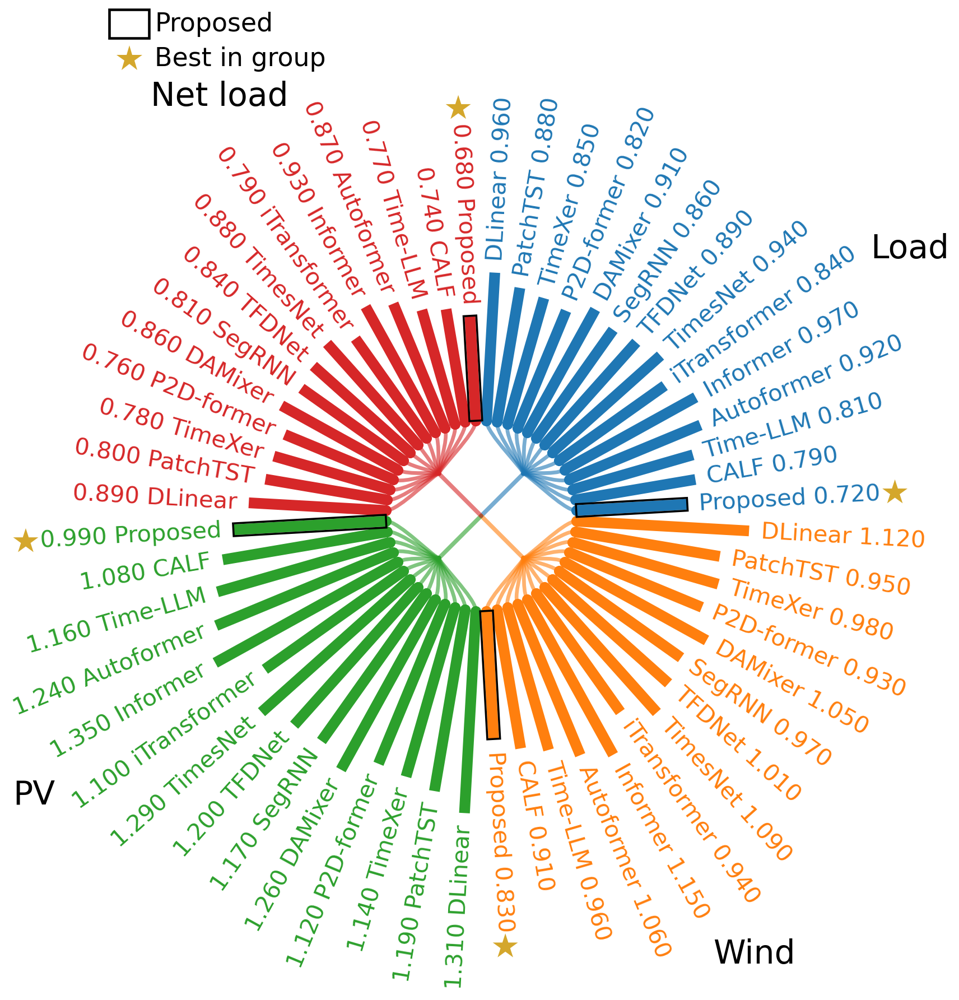
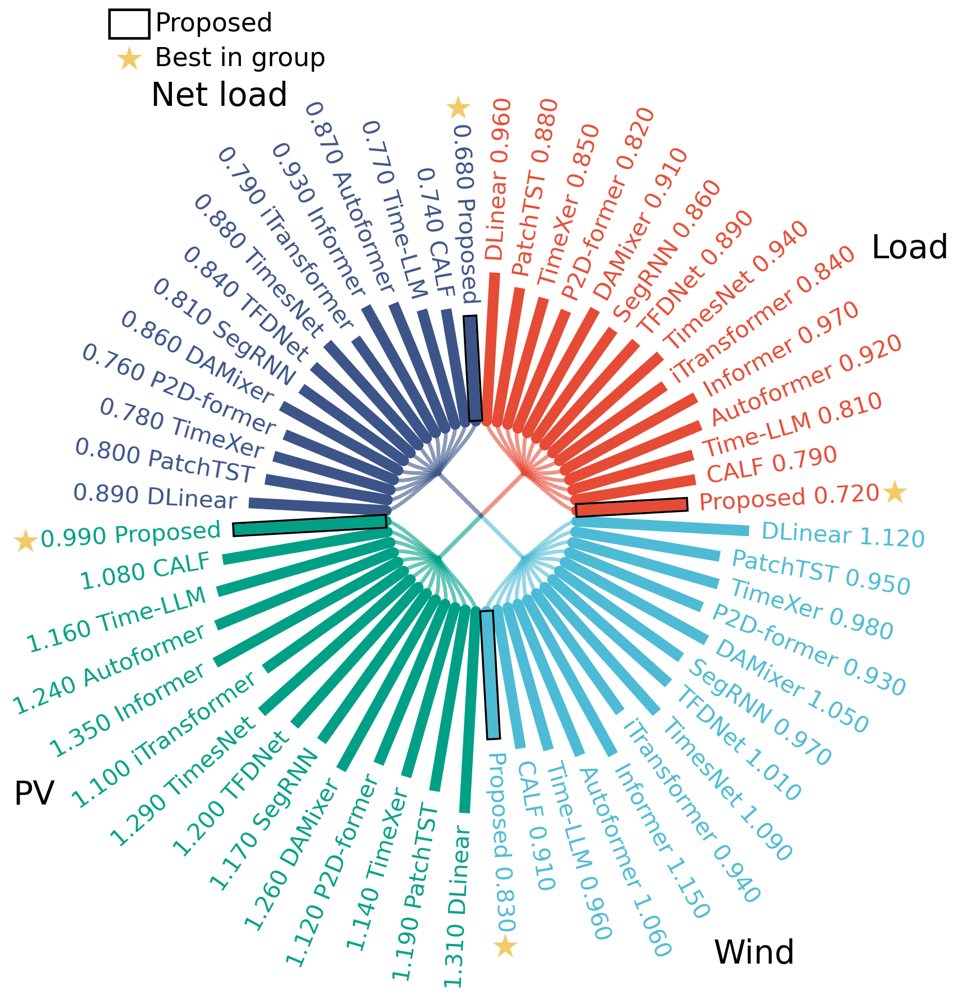
Add reference image palettes and per-panel color selection

diff --git a/src/radialbundle/plotting.py b/src/radialbundle/plotting.py
@@ -16,6 +16,10 @@ import numpy as np
 
 PALETTE = ("#1f77b4", "#ff7f0e", "#2ca02c", "#d62728", "#9467bd",
            "#8c564b", "#e377c2", "#7f7f7f", "#bcbd22", "#17becf")
+PALETTES = {
+    "reference": ("#E64B35", "#4DBBD5", "#00A087", "#3C5488"),
+    "reference_right": ("#7E2F8E", "#238EBA", "#00A087", "#D99A00"),
+}
 
 
 @dataclass(frozen=True)
@@ -38,7 +42,7 @@ class Style:
     branch_alpha: float = 0.6
     start_angle: float = 90
     group_label_angle: float = 0.355
-    star_color: str = "#D4A72C"
+    star_color: str = "#F2CA69"
 
 
 def _xy(radius, angle):
@@ -112,7 +116,7 @@ def _validate_style(style):
 
 
 def plot(data, *, highlight=None, lower_is_better=True, value_format=".3f",
-         scale=None, colors=None, model_order=None, background=None, title=None,
+         scale=None, colors="reference", model_order=None, background=None, title=None,
          style=None, ax=None, legend=True, highlight_label=None, best_label="Best"):
     """Draw one disk and return ``(figure, axes)``.
 
@@ -121,6 +125,8 @@ def plot(data, *, highlight=None, lower_is_better=True, value_format=".3f",
     A single linear scale is used across the disk. Stars identify all exact ties
     for the best observed value within each group; the outline is independent.
     ``scale`` is drawing units per data unit, not per-group normalization.
+    ``colors`` accepts a named palette (reference, reference_right, matplotlib),
+    a group/color mapping, or a color sequence. None follows Matplotlib's cycle.
     """
     data, models = _prepare(data, model_order, highlight)
     style = Style() if style is None else style
@@ -136,8 +142,13 @@ def plot(data, *, highlight=None, lower_is_better=True, value_format=".3f",
     except (ValueError, TypeError) as error:
         raise ValueError("value_format must be a valid Python numeric format, e.g. '.3f'") from error
     groups = list(data)
-    if colors is None:
+    if colors is None or (isinstance(colors, str) and colors == "matplotlib"):
         cycle = mpl.rcParams["axes.prop_cycle"].by_key().get("color", PALETTE)
+        palette = [cycle[i % len(cycle)] for i in range(len(groups))]
+    elif isinstance(colors, str):
+        if colors not in PALETTES:
+            raise ValueError(f"unknown palette {colors!r}; choose reference, reference_right, or matplotlib")
+        cycle = PALETTES[colors]
         palette = [cycle[i % len(cycle)] for i in range(len(groups))]
     elif isinstance(colors, Mapping):
         if any(group not in colors for group in groups):
@@ -269,11 +280,12 @@ def plot(data, *, highlight=None, lower_is_better=True, value_format=".3f",
     return fig, ax
 
 
-def plot_panels(panels, *, ncols=2, share_scale=False, **kwargs):
+def plot_panels(panels, *, ncols=2, share_scale=False, panel_colors=None, **kwargs):
     """Draw named disks in a grid, returning ``(figure, 2D_axes_array)``.
 
     ``share_scale=True`` gives all panels the same units-to-length conversion.
     Otherwise each panel automatically scales to its own maximum.
+    ``panel_colors`` optionally maps panel names to palettes or custom colors.
     """
     if not isinstance(panels, Mapping) or not panels:
         raise ValueError("panels must be a nonempty title/data mapping")
@@ -281,6 +293,9 @@ def plot_panels(panels, *, ncols=2, share_scale=False, **kwargs):
         raise ValueError("ncols must be a positive integer")
     if "ax" in kwargs:
         raise ValueError("plot_panels creates its own axes")
+    if panel_colors is not None:
+        if not isinstance(panel_colors, Mapping) or any(name not in panels for name in panel_colors):
+            raise ValueError("panel_colors must map existing panel names to palettes or colors")
     ncols = min(ncols, len(panels))
     nrows = math.ceil(len(panels) / ncols)
     if share_scale and kwargs.get("scale") is None:
@@ -294,6 +309,8 @@ def plot_panels(panels, *, ncols=2, share_scale=False, **kwargs):
     fig.subplots_adjust(left=.04, right=.96, bottom=.04, top=.91, wspace=.12, hspace=.3)
     for ax, (name, data) in zip(axes.flat, panels.items()):
         options = dict(kwargs)
+        if panel_colors is not None and name in panel_colors:
+            options["colors"] = panel_colors[name]
         options.setdefault("title", str(name))
         plot(data, ax=ax, **options)
     for ax in list(axes.flat)[len(panels):]:

diff --git a/tests/test_radialbundle.py b/tests/test_radialbundle.py
@@ -69,7 +69,7 @@ class PlotTests(unittest.TestCase):
         self.assertIs(result_ax, ax)
         self.assertEqual(before, {key: repr(matplotlib.rcParams[key]) for key in keys})
 
-    def test_defaults_follow_matplotlib_font_and_color_context(self):
+    def test_matplotlib_palette_and_font_follow_context(self):
         data = {
             "Load": {"Baseline": 1.0, "Proposed": 0.8},
             "Wind": {"Baseline": 1.2, "Proposed": 0.9},
@@ -81,7 +81,7 @@ class PlotTests(unittest.TestCase):
             "font.family": ["DejaVu Sans Mono"],
             "axes.prop_cycle": plt.cycler(color=colors),
         }):
-            _, ax = plot(data, legend=False)
+            _, ax = plot(data, colors="matplotlib", legend=False)
             for group, color in zip(data, colors):
                 bar = next(a for a in ax.get_children()
                            if a.get_gid() == f"bar:{group}:Baseline")
@@ -93,6 +93,22 @@ class PlotTests(unittest.TestCase):
                 self.assertEqual(label.get_fontweight(), "normal")
         self.assertEqual(matplotlib.rcParams["font.family"], before_font)
         self.assertEqual(matplotlib.rcParams["axes.prop_cycle"].by_key()["color"], before_colors)
+
+    def test_reference_palettes_and_per_panel_selection(self):
+        data = {group: {"Proposed": value} for group, value in
+                zip(["Load", "Wind", "PV", "Net load"], [1, 2, 3, 4])}
+        expected = ["#E64B35", "#4DBBD5", "#00A087", "#3C5488"]
+        _, ax = plot(data, legend=False)
+        for group, color in zip(data, expected):
+            bar = next(a for a in ax.get_children() if a.get_gid() == f"bar:{group}:Proposed")
+            self.assertEqual(matplotlib.colors.to_hex(bar.get_color()), color.lower())
+        _, axes = plot_panels({"Left": data, "Right": data}, legend=False,
+                              panel_colors={"Right": "reference_right"})
+        right_bar = next(a for a in axes[0, 1].get_children()
+                         if a.get_gid() == "bar:Load:Proposed")
+        self.assertEqual(matplotlib.colors.to_hex(right_bar.get_color()), "#7e2f8e")
+        with self.assertRaises(ValueError):
+            plot(data, colors="not-a-palette")
 
     def test_invalid_metrics_scales_and_names_fail_before_plotting(self):
         for value in [-1.0, math.inf, -math.inf, math.nan]:

diff --git a/src/radialbundle/__main__.py b/src/radialbundle/__main__.py
@@ -15,6 +15,7 @@ def main(argv=None):
     parser.add_argument("--panel", help="select one panel; by default draw all panels")
     parser.add_argument("--highlight", help="model to outline, e.g. Proposed")
     parser.add_argument("--background", default=None)
+    parser.add_argument("--palette", choices=["reference", "reference_right", "matplotlib"], default="reference")
     parser.add_argument("--decimals", type=int, default=3)
     parser.add_argument("--higher-is-better", action="store_true")
     parser.add_argument("--share-scale", action="store_true", help="same length scale across panels")
@@ -31,7 +32,7 @@ def main(argv=None):
             if args.panel not in panels:
                 raise ValueError(f"panel {args.panel!r} not found; available: {list(panels)}")
             panels = {args.panel: panels[args.panel]}
-        options = dict(highlight=args.highlight, background=args.background,
+        options = dict(highlight=args.highlight, background=args.background, colors=args.palette,
                        lower_is_better=not args.higher_is_better,
                        value_format=f".{args.decimals}f",
                        style=Style(label_size=args.label_size, font_family=args.font))

diff --git a/examples/two_panels.py b/examples/two_panels.py
@@ -1,4 +1,4 @@
-"""Two Matplotlib-style panels. All values are synthetic, not research results."""
+"""Reference palettes with Matplotlib fonts. All values are synthetic."""
 
 from pathlib import Path
 
@@ -16,16 +16,19 @@ def main():
         for group, values in DATA.items()
     }
     panels = {"Dataset A": DATA, "Dataset B": data_b}
-    fig, _ = plot_panels(
-        panels,
-        share_scale=True,
-        highlight="Proposed",
-        best_label="Best in group",
-        value_format=".3f",
-    )
-    save(fig, out / "two_panels")
-    print(out / "two_panels.png")
-    plt.close(fig)
+    for background, suffix in [("white", ""), ("#c8c8c8", "_gray")]:
+        fig, _ = plot_panels(
+            panels,
+            share_scale=True,
+            panel_colors={"Dataset A": "reference", "Dataset B": "reference_right"},
+            highlight="Proposed",
+            best_label="Best in group",
+            value_format=".3f",
+            background=background,
+        )
+        save(fig, out / f"two_panels{suffix}")
+        print(out / f"two_panels{suffix}.png")
+        plt.close(fig)
 
 
 if __name__ == "__main__":

diff --git a/src/radialbundle/__init__.py b/src/radialbundle/__init__.py
@@ -1,7 +1,7 @@
 """Radial comparison plots with bundled branches and editable vector output."""
 
-from .plotting import Style, plot, plot_panels, save
+from .plotting import PALETTES, Style, plot, plot_panels, save
 from .csvio import read_csv
 
-__all__ = ["Style", "plot", "plot_panels", "read_csv", "save"]
-__version__ = "0.2.0"
+__all__ = ["PALETTES", "Style", "plot", "plot_panels", "read_csv", "save"]
+__version__ = "0.3.0"

diff --git a/README.md b/README.md
@@ -2,7 +2,7 @@
 
 用 Matplotlib 画分组径向比较图：中心细曲线汇聚，外圈柱条标注模型和数值，黑框强调指定方法，金星标出各组最优值。
 
-默认采用 Matplotlib 的颜色周期、无衬线字体和白底，支持 Python 字典、CSV、并列多图，以及 PNG、PDF、SVG 导出。Python 模块名为 **`radialbundle`**。
+默认采用参考图中的珊瑚红、青蓝、青绿和深蓝，字体保持 Matplotlib 的无衬线风格，背景默认白色。支持 Python 字典、CSV、并列多图，以及 PNG、PDF、SVG 导出。Python 模块名为 **`radialbundle`**。
 
 ![四任务径向图示例，数值为虚构数据](docs/images/preview.png)
 
@@ -88,6 +88,7 @@ fig, axes = plot_panels(
     panels,
     ncols=2,
     share_scale=True,
+    panel_colors={"Dataset A": "reference", "Dataset B": "reference_right"},
     highlight="Proposed",
     value_format=".3f",
 )
@@ -100,14 +101,23 @@ save(fig, "two_datasets")
 
 ## Matplotlib 风格和自定义样式
 
-默认配色跟随 `axes.prop_cycle`，字体跟随 `font.family`，背景跟随 `figure.facecolor`，因此也可以使用 Matplotlib 的样式上下文：
+提供两套参考图配色，按分组顺序使用：
+
+| 名称 | 四个分组的颜色 |
+| --- | --- |
+| `reference`（默认） | 珊瑚红 `#E64B35`、青蓝 `#4DBBD5`、青绿 `#00A087`、深蓝 `#3C5488` |
+| `reference_right` | 紫 `#7E2F8E`、蓝 `#238EBA`、青绿 `#00A087`、金黄 `#D99A00` |
+
+例如 `plot(data, colors="reference_right")` 切换第二套；`panel_colors` 可分别设置每个面板，未指定的面板采用默认配色。金星采用参考图的浅金色 `#F2CA69`，柱条、模型文字和中心细曲线使用同组颜色。
+
+字体跟随 `font.family`，背景跟随 `figure.facecolor`。设置 `colors="matplotlib"` 时，配色也跟随 Matplotlib 的 `axes.prop_cycle`：
 
 ```python
 import matplotlib.pyplot as plt
 from radialbundle import plot, save
 
 with plt.style.context("bmh"):
-    fig, ax = plot(data, highlight="Proposed")
+    fig, ax = plot(data, highlight="Proposed", colors="matplotlib")
     save(fig, "styled_figure")
 ```
 
@@ -130,7 +140,7 @@ style = Style(
 fig, ax = plot(
     data,
     style=style,
-    colors=["tab:blue", "tab:orange", "tab:green", "tab:red"],
+    colors=["#E64B35", "#4DBBD5", "#00A087", "#3C5488"],
     highlight="Proposed",
     highlight_label="本文方法",
     best_label="最优模型",
@@ -139,6 +149,10 @@ fig, ax = plot(
 ```
 
 中文优先使用 Microsoft YaHei，缺失时尝试 Noto Sans CJK 等字体；也可用 `Style(cjk_font="本机字体名")` 指定。传入 `ax` 可画到自己的 Matplotlib 子图中；返回的 `fig` 和 `ax` 可继续修改。绘图不会改写全局 `rcParams`。
+
+命令行可用 `--palette reference_right` 或 `--palette matplotlib` 切换配色。参考截图的灰底可用 `--background "#c8c8c8"`；并列图的灰底示例见下图。
+
+![参考图配色与灰底示例，数值为虚构数据](docs/images/two_panels_gray.png)
 
 `save(fig, "output/figure", formats=("pdf", "svg"), dpi=300)` 可选择导出格式；PDF 嵌入字体，SVG 保留可编辑文字。
 
